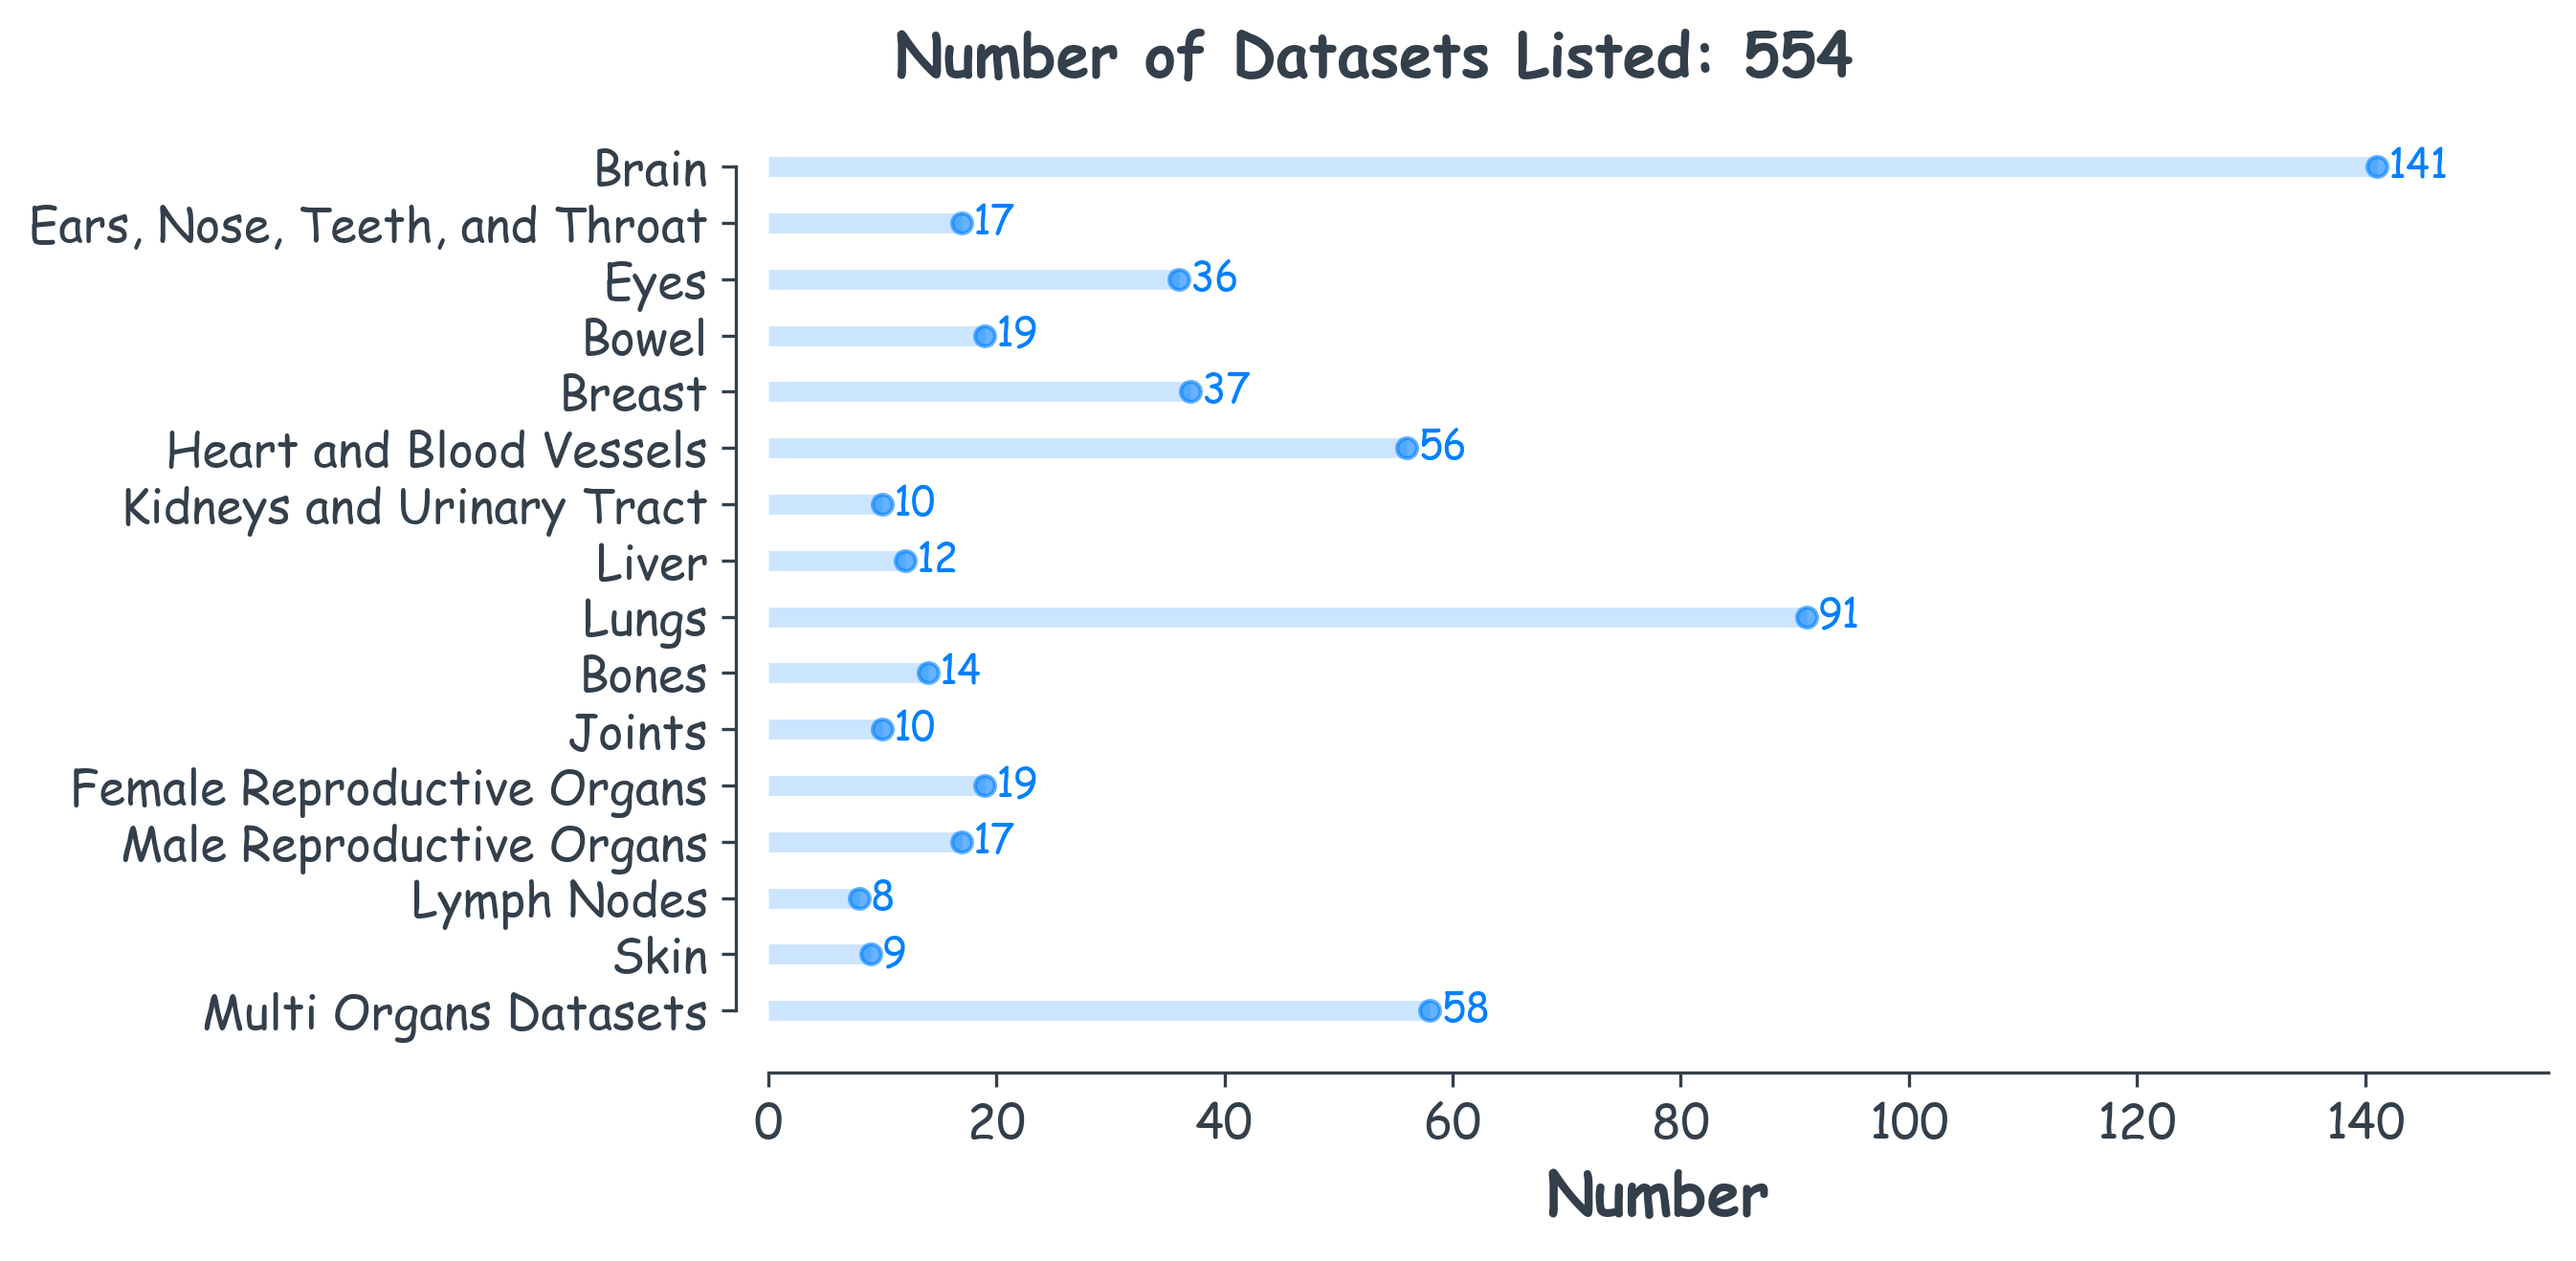
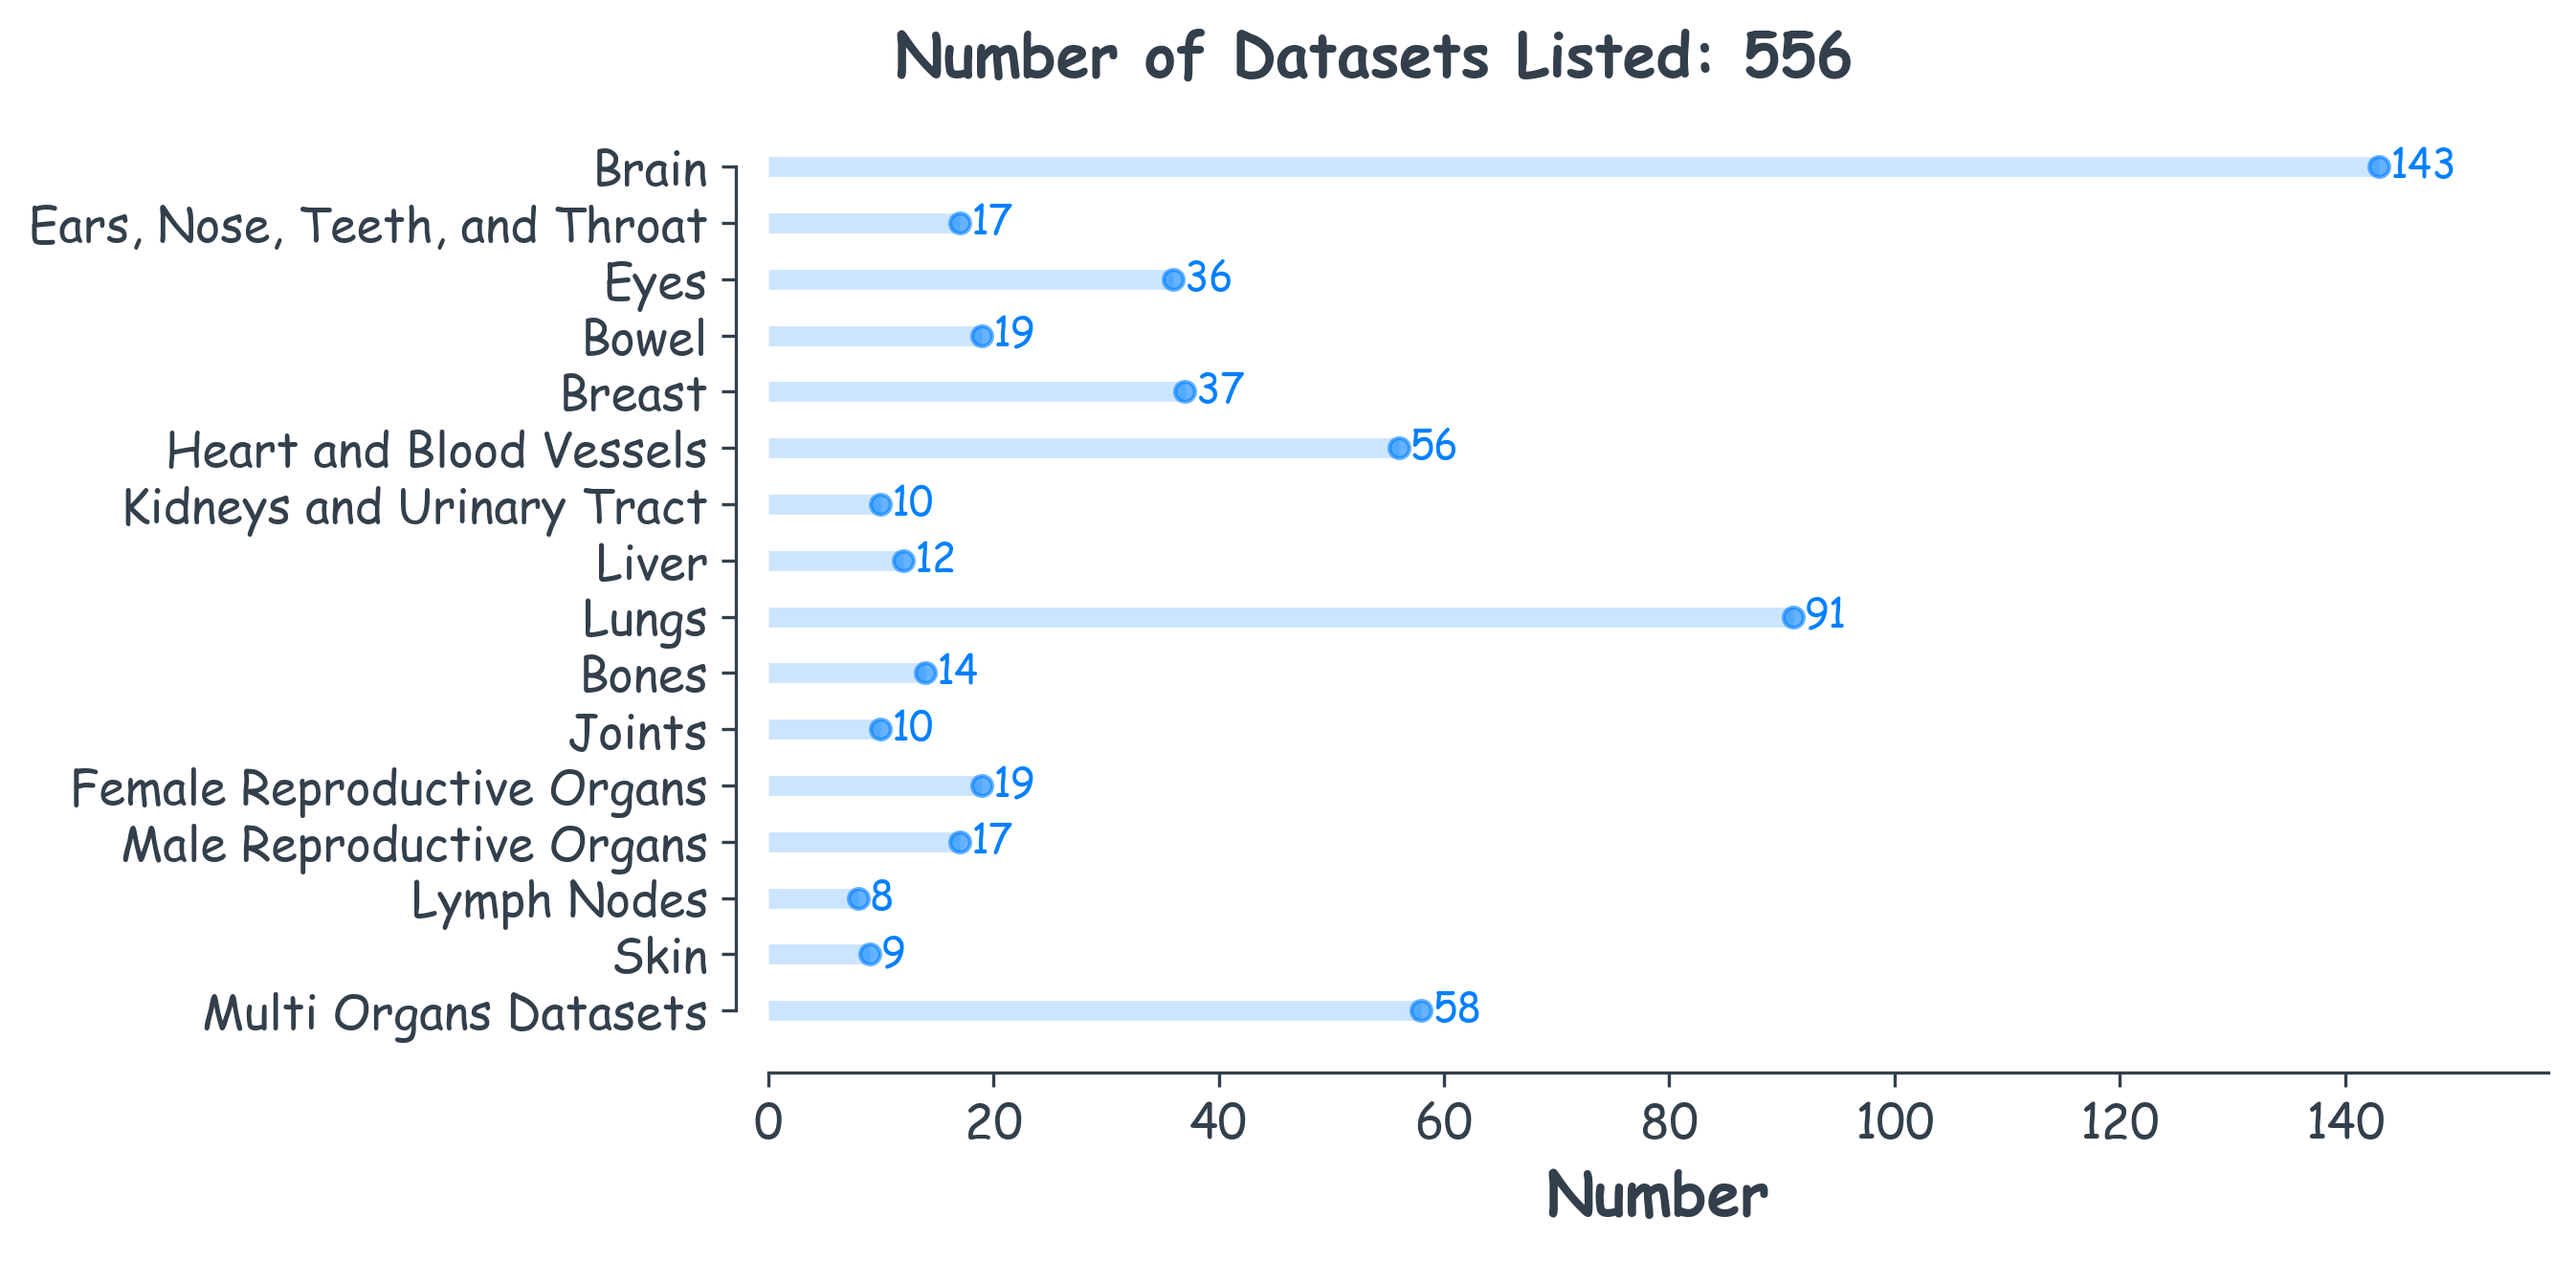
update image number, N = 556

diff --git a/src/datasetNumberImage.py b/src/datasetNumberImage.py
@@ -29,7 +29,7 @@ plt.rcParams['text.color']='#333F4B'
 
 
 data = {
-       'Brain': 141,
+       'Brain': 143,
        'Ears, Nose, Teeth, and Throat': 17, 
        'Eyes': 36,
        'Bowel': 19,
